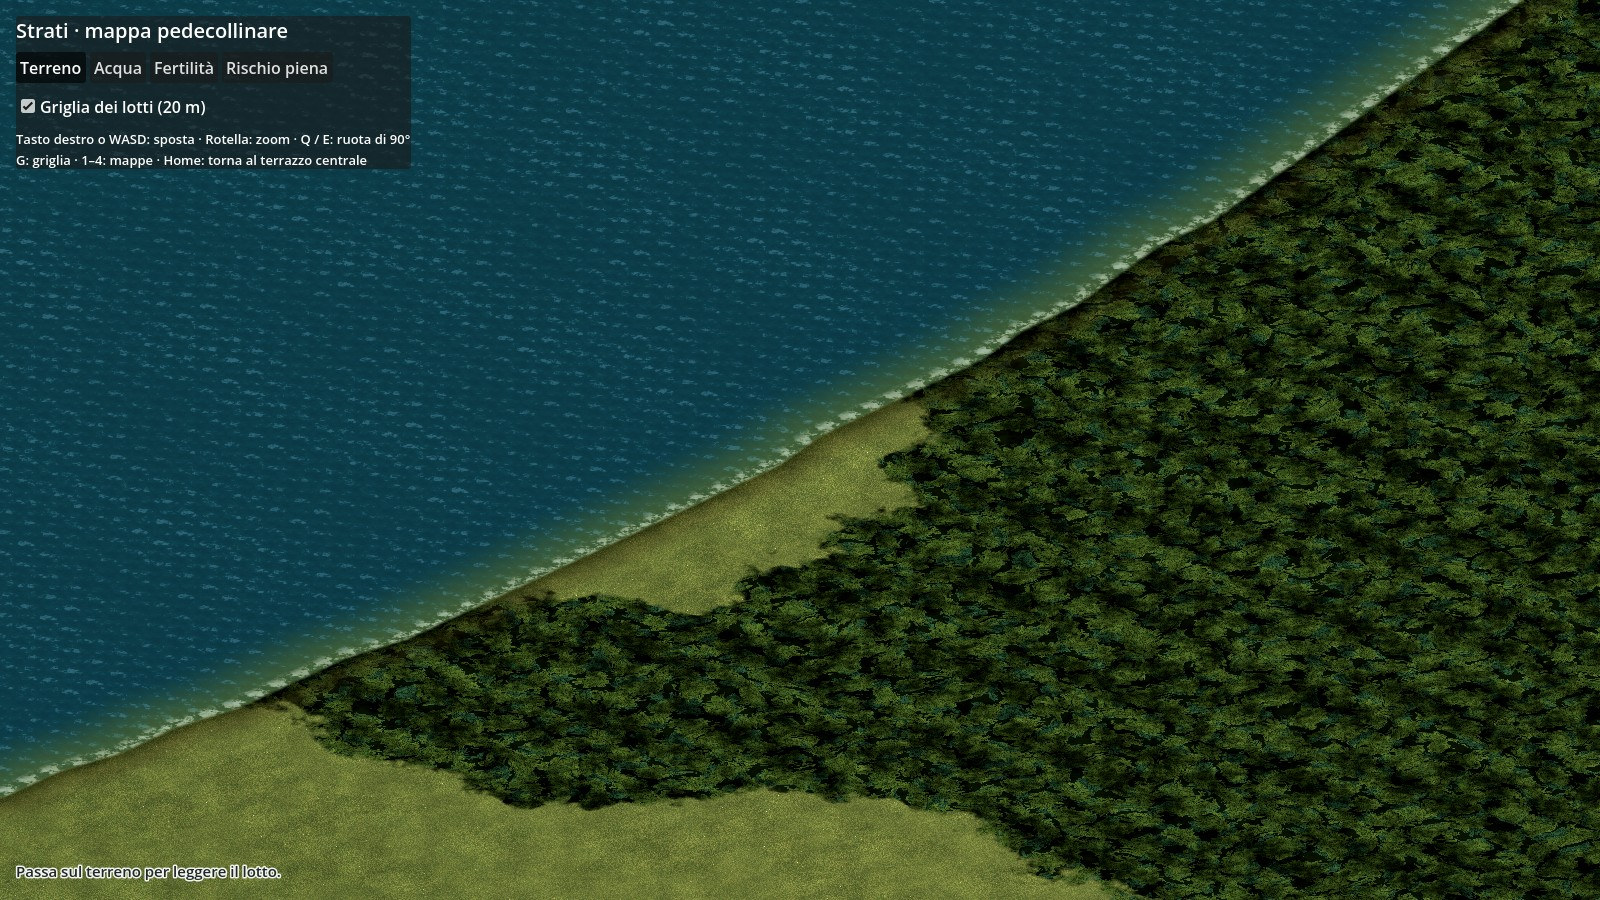
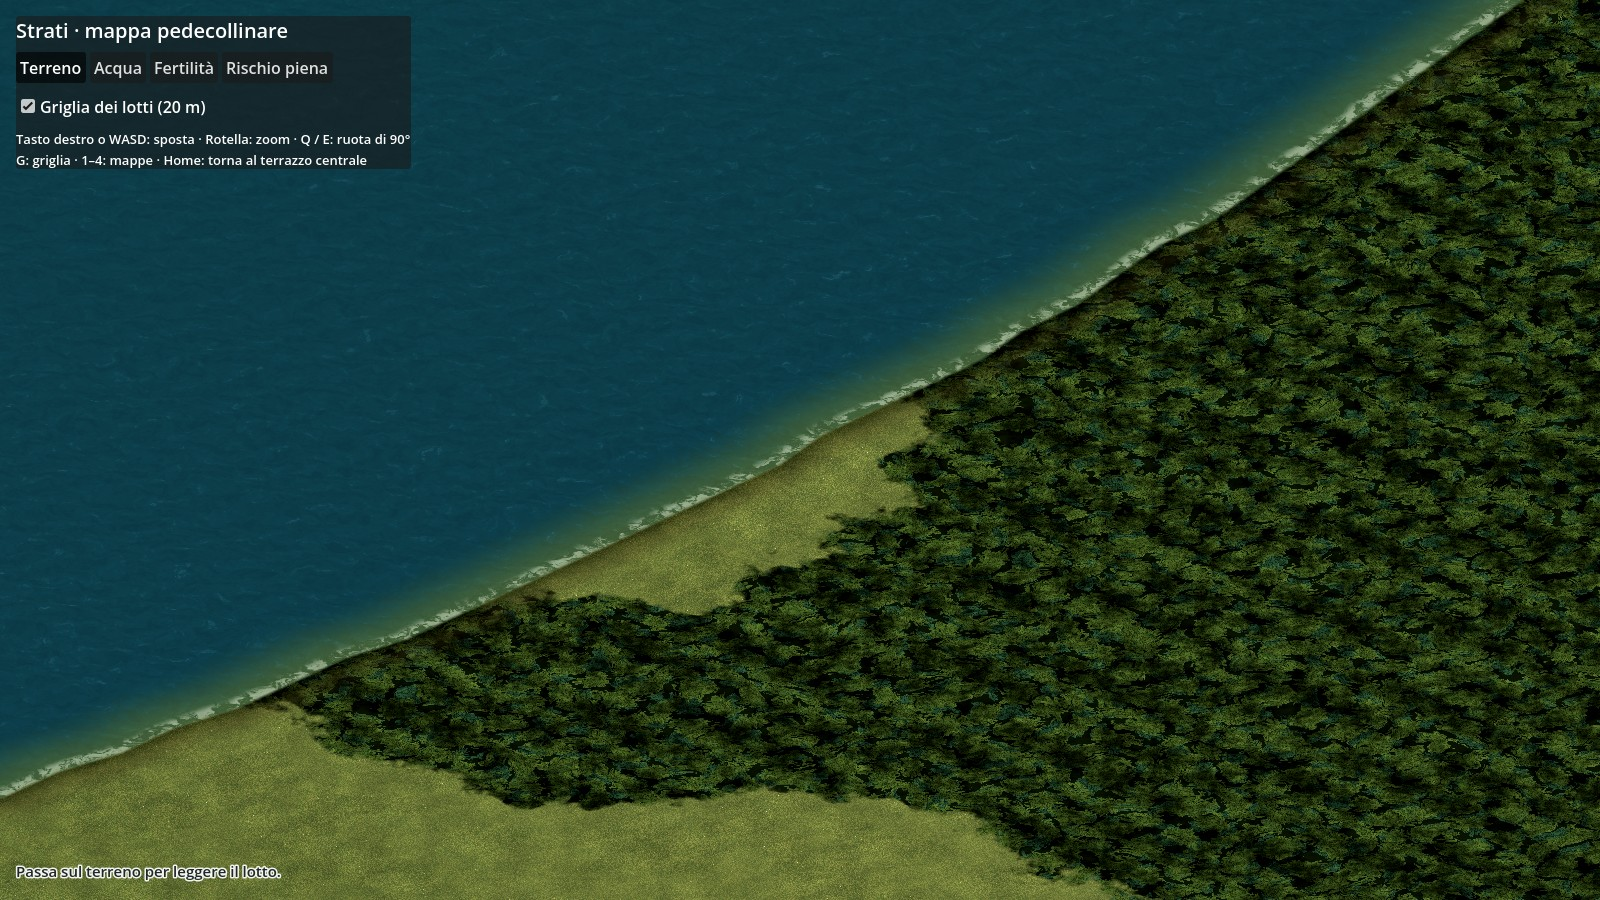
Acqua senza motivo ripetuto: coordinate deformate, tre strati di increspature, ondulazione unica per la mappa; diario con il lavoro rimandato alla prossima sessione
Claude-Session: https://claude.ai/code/session_01N4eDGmuEoEcJQdC5u5KEMd

diff --git a/docs/diario.md b/docs/diario.md
@@ -15,7 +15,7 @@ Voci più recenti in cima.
 - **Terza versione di alberi e prato**, dopo il parere di Fede sulla seconda e le sue reference di AoE IV: zoom fino a 40 m; foglie singole e grandi, una texture per specie; chiome a lobi con normali sferiche e ombra interna calcolata; cinque specie (quercia, carpino, pioppo, acero autunnale, arbusto); prato a fili sottili con chiazze di erba secca e meno ripetizione; piani di taglio della camera stretti per ombre nitide da vicino. Dettagli in `docs/asset.md`, immagini in `docs/immagini/prova-stile-v3-*.jpg`. Ombre: Fede ha notato che mancavano del tutto. Non era un limite dell'ambiente di Claude ma due errori del progetto: il sole stava alle spalle della camera (ombre nascoste dietro gli oggetti) e la camera era a 20 km (ombre sfumate fino a sparire). Ora il sole gira con la camera (da sinistra, ombre lunghe verso destra, come chiesto da Fede) e la distanza della camera segue lo zoom: le ombre si vedono e sono nitide da vicino.
 - **Terreno migliorato:** boschi con bordi irregolari (non più a gradini da 40 m) e una volta di chiome dipinta, in attesa degli alberi veri; terra che affiora sui pendii ripidi.
 - **Prato senza ripetizioni:** verde, ingiallito e secco distribuiti da rumori unici per tutta la mappa e dai dati del luogo (acqua, fertilità), bordi morbidi senza scalini, variazione di tono minuta da vicino.
-- **Acqua:** profondità che sfuma dalla riva al centro, increspature animate, riflessi del cielo, schiuma lungo la riva, sponda bagnata; risolte le fasce a gradini (distanza dalla riva ora in virgola mobile). Nuovo documento `docs/resa-grafica.md` sui sistemi grafici comuni a tutte le mappe.
+- **Acqua:** profondità che sfuma dalla riva al centro, increspature animate senza motivo ripetuto, riflessi del cielo, schiuma lungo la riva, sponda bagnata; risolte le fasce a gradini (distanza dalla riva ora in virgola mobile). Nuovo documento `docs/resa-grafica.md` sui sistemi grafici comuni a tutte le mappe.
 - Strumenti nell'ambiente di Claude: Godot 4.7.2 senza grafica e Blender 5.3 come modulo Python; catena Blender → glTF → Godot provata con una casa lunga neolitica.
 
 **Decisioni (Fede)**
@@ -36,5 +36,10 @@ Voci più recenti in cima.
 - Fede: preparare il PC dedicato (Godot 4.7.2, Blender 5.3, GitHub Desktop: vedi `docs/setup-pc.md`); continuare a provare il Prototipo 0.
 - Fede: aprire `gioco/project.godot` con Godot 4.7.2 sul PC dedicato, premere F5 e riportare cosa si vede e come risponde (vedi `docs/setup-pc.md`).
 - Fede: dare un parere sulla terza versione di alberi e prato (`docs/immagini/prova-stile-v3-*.jpg`); sul PC, avvicinare lo zoom al massimo vicino al terrazzo centrale, ruotare con Q/E e dire come appaiono ombre e luce (gli alberi si vedono nel gioco solo con `test/foto_asset.gd`, per ora non sono posati sulla mappa).
-- Claude: posare gli alberi veri sulla mappa (boschi e alberi sparsi, con istanze multiple e una versione leggera per la distanza), poi completare il lotto del villaggio nello stile scelto.
+- Claude, prossima sessione (rimandato da Fede alla prossima):
+  - posare gli alberi veri sulla mappa al posto della volta di chiome dipinta: boschi e alberi sparsi, istanze multiple, versione leggera per la distanza, specie scelta in base al luogo;
+  - acqua: corrente nel verso del fiume, rapide e cascate sui torrenti, paludi con acqua bassa e canne, livelli che cambiano con le piene;
+  - alberi: carte viste di taglio ai bordi delle chiome;
+  - texture di paglia e argilla delle case da rivedere per lo zoom ravvicinato;
+  - poi completare il lotto del villaggio nello stile scelto.
 - In sospeso: recinto come primo strumento di regolazione nel Prototipo 0.

diff --git a/docs/resa-grafica.md b/docs/resa-grafica.md
@@ -29,7 +29,7 @@ Codice: `gioco/shader/terreno.gdshader`, `gioco/script/terreno.gd`.
 ## Acqua
 Codice: in fondo a `gioco/shader/terreno.gdshader`. Dati: la distanza dalla riva, che `terreno.gd` converte in virgola mobile (in 8 bit faceva fasce a gradini).
 - Profondità che sfuma dalla riva (bassa e verdastra) al centro (verde-azzurro più scuro).
-- Increspature che scorrono nel tempo, in due strati più un'ondulazione lenta; riflessi del cielo sulle creste e un poco di luce propria, così l'acqua non diventa scura in ombra.
+- Increspature che scorrono nel tempo: tre strati a scale e orientamenti diversi, su coordinate deformate da un rumore più ampio, più un'ondulazione lenta unica per tutta la mappa. Così non si vede un motivo ripetuto (segnalato da Fede); riflessi del cielo sulle creste e un poco di luce propria, così l'acqua non diventa scura in ombra.
 - Superficie liscia e riflettente (il terreno no).
 - Schiuma sottile lungo la riva, sponda bagnata più scura e un velo di limo.
 - Da fare: corrente nel verso del fiume, cascate e rapide sui torrenti, paludi con acqua bassa e canne, livelli che cambiano con le piene.
